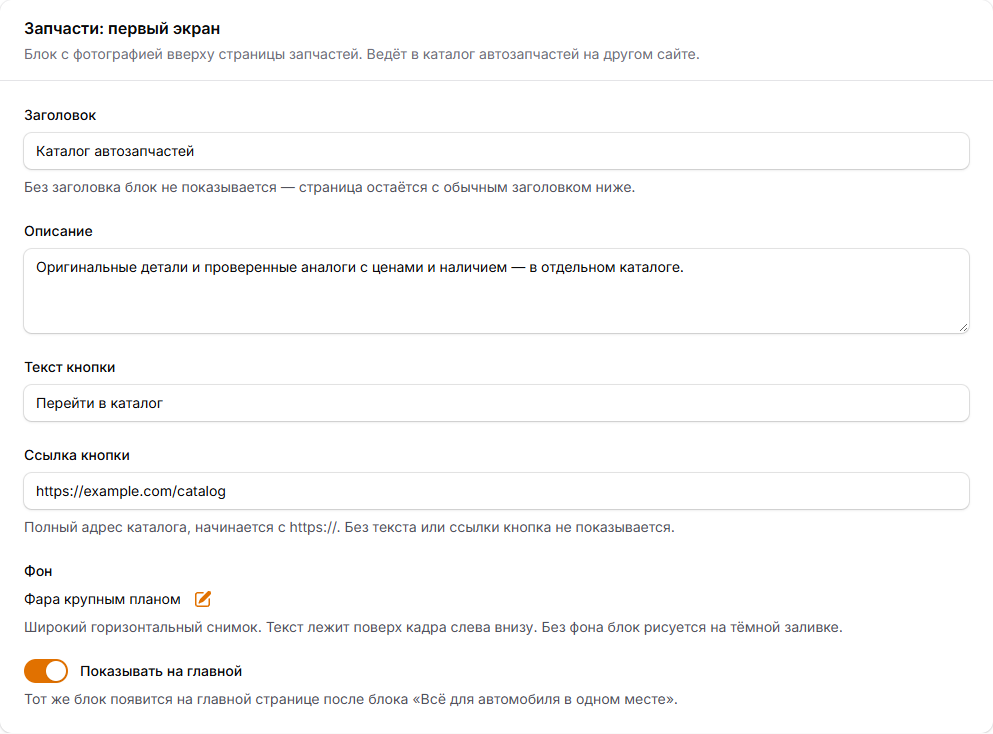
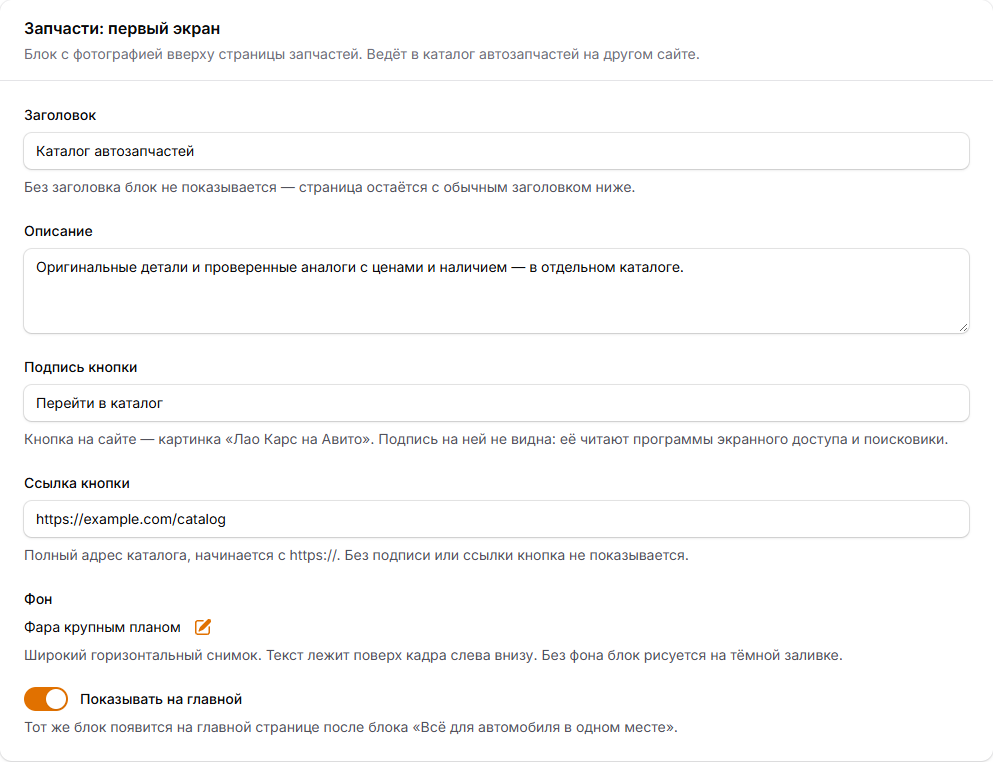
feat: кнопка первого экрана запчастей — плашка «Лао Карс на Авито»
Текстовая кнопка заменена картинкой; текст из настроек уходит в alt
и остаётся обязательным. Поле в панели переименовано в «Подпись кнопки»,
справка и снимки обновлены.

diff --git a/resources/views/components/parts/hero.blade.php b/resources/views/components/parts/hero.blade.php
@@ -91,14 +91,42 @@
                  или с адресом не по http(s) сервис отдаёт `null`. Внешний
                  адрес открывается в новой вкладке, и `noopener` там
                  обязателен — без него открытая страница получает доступ
-                 к нашей вкладке через `window.opener`. --}}
+                 к нашей вкладке через `window.opener`.
+
+                 Кнопка — КАРТИНКА, а не текст: плашка «Лао Карс на Авито»
+                 из `resources/images/avito-badge.svg`. Надпись на ней
+                 нарисована кривыми, поэтому текст кнопки из настроек
+                 никуда не делся — он стал подписью `alt`: это единственное,
+                 что прочтёт программа экранного доступа и что останется
+                 на месте картинки, если она не загрузилась. Пустой `alt`
+                 дал бы ссылку без имени.
+
+                 Плашка белая сама по себе (заливка внутри файла), и литерал
+                 `white` в классах здесь не нужен. Размеры проставлены явно —
+                 пропорция файла 705×141, — иначе блок прыгает при загрузке.
+
+                 Картинка зашита в вёрстку, а адрес приходит из настроек:
+                 если адрес ведёт не на Авито, плашка обещает не то, куда
+                 приведёт. Триггер вернуть текстовую кнопку или завести
+                 выбор — первый каталог не на Авито.
+
+                 Пробовали и составной вариант — надпись текстом плюс плашка
+                 с одним логотипом. Заказчик выбрал цельную плашку. --}}
             @if ($hero['button'] !== null)
                 <div class="mt-8">
                     <a
                         href="{{ $hero['button']['url'] }}"
                         @if ($hero['button']['external']) target="_blank" rel="noopener noreferrer" @endif
-                        class="inline-block rounded-full bg-accent-solid px-9 py-4.5 text-[15px] font-semibold tracking-[0.02em] text-on-accent transition hover:-translate-y-0.5 hover:bg-accent-hover"
-                    >{{ $hero['button']['text'] }}</a>
+                        class="inline-block rounded-full transition hover:-translate-y-0.5 hover:opacity-90"
+                    >
+                        <img
+                            src="{{ Vite::asset('resources/images/avito-badge.svg') }}"
+                            width="280"
+                            height="56"
+                            alt="{{ $hero['button']['text'] }}"
+                            class="h-14 w-auto"
+                        >
+                    </a>
                 </div>
             @endif
         </div>

diff --git a/tests/Feature/Http/PartsHeroTest.php b/tests/Feature/Http/PartsHeroTest.php
@@ -142,8 +142,31 @@ it('prints the hero button as an outside link opened in a new tab', function () 
     $html = flatHtml($this->get('/parts')->assertOk()->getContent());
 
     expect($html)->toMatch(
-        '#<a\s[^>]*href="https://parts\.example\.com/catalog"[^>]*target="_blank"[^>]*rel="noopener noreferrer"[^>]*>\s*Открыть каталог\s*</a>#u',
+        '#<a\s[^>]*href="https://parts\.example\.com/catalog"[^>]*target="_blank"[^>]*rel="noopener noreferrer"[^>]*>\s*<img\s[^>]*alt="Открыть каталог"[^>]*>\s*</a>#u',
     );
+});
+
+it('draws the hero button as the avito badge named by the button text', function () {
+    // Кнопка — картинка, и надпись на ней нарисована кривыми. Текст кнопки
+    // из настроек обязан доехать в `alt`: без него у ссылки нет имени —
+    // программа экранного доступа прочтёт адрес, а при незагрузившейся
+    // картинке на её месте не останется ничего.
+    partsHero();
+
+    $html = flatHtml($this->get('/parts')->assertOk()->getContent());
+
+    preg_match('#<a\s[^>]*href="https://parts\.example\.com/catalog"[^>]*>\s*(<img\s[^>]*>)\s*</a>#u', $html, $link);
+
+    expect($link)->not->toBeEmpty('ссылка-картинка первого экрана не найдена')
+        ->and($link[1])->toContain('avito-badge')
+        ->and($link[1])->toContain('alt="Открыть каталог"')
+        // Без явных размеров блок прыгает, пока картинка грузится.
+        ->and($link[1])->toContain('width="280"')
+        ->and($link[1])->toContain('height="56"');
+
+    // Текстом в теле ссылки подпись не печатается: два имени у одной
+    // ссылки программа экранного доступа прочла бы подряд.
+    expect($html)->not->toMatch('#Открыть каталог\s*</a>#u');
 });
 
 it('leaves a link to the site itself in the same tab', function () {
@@ -152,7 +175,7 @@ it('leaves a link to the site itself in the same tab', function () {
 
     $html = flatHtml($this->get('/parts')->assertOk()->getContent());
 
-    preg_match('#<a\s[^>]*href="https://laocars\.test/catalog"[^>]*>\s*Открыть каталог#u', $html, $link);
+    preg_match('#<a\s[^>]*href="https://laocars\.test/catalog"[^>]*>\s*<img\s[^>]*alt="Открыть каталог"#u', $html, $link);
 
     expect($link)->not->toBeEmpty()
         ->and($link[0])->not->toContain('target=');

diff --git a/app/Filament/Pages/ManageSiteSettings.php b/app/Filament/Pages/ManageSiteSettings.php
@@ -1093,12 +1093,18 @@ final class ManageSiteSettings extends Page
                     ->label('Описание')
                     ->rows(3),
 
+                // Кнопка на сайте — картинка «Лао Карс на Авито», и этот
+                // текст на ней не виден: он уходит в подпись картинки.
+                // Поле при этом по-прежнему обязательно для кнопки —
+                // ссылка-картинка без подписи не имеет имени для программ
+                // экранного доступа.
                 TextInput::make($key.'.button_text')
-                    ->label('Текст кнопки'),
+                    ->label('Подпись кнопки')
+                    ->helperText('Кнопка на сайте — картинка «Лао Карс на Авито». Подпись на ней не видна: её читают программы экранного доступа и поисковики.'),
 
                 TextInput::make($key.'.button_url')
                     ->label('Ссылка кнопки')
-                    ->helperText('Полный адрес каталога, начинается с https://. Без текста или ссылки кнопка не показывается.')
+                    ->helperText('Полный адрес каталога, начинается с https://. Без подписи или ссылки кнопка не показывается.')
                     // Проверка тем же методом, что и на выводе
                     // (`OutboundLink::isAllowed()`), а не своим похожим
                     // условием и не штатным `->url()`: два правила про одно

diff --git a/resources/help/service-pages-texts.md b/resources/help/service-pages-texts.md
@@ -28,7 +28,7 @@
 
 ## Запчасти: первый экран
 
-![Секция «Запчасти: первый экран»: заголовок, описание, текст и ссылка кнопки, фон и переключатель «Показывать на главной»](/admin/help/image/settings-parts-hero.png)
+![Секция «Запчасти: первый экран»: заголовок, описание, подпись и ссылка кнопки, фон и переключатель «Показывать на главной»](/admin/help/image/settings-parts-hero.png)
 
 Блок с фотографией в самом верху страницы запчастей. Он ведёт посетителя в каталог автозапчастей, который живёт на другом сайте.
 
@@ -36,20 +36,22 @@
 | :---- | :---- |
 | **Заголовок** | Крупная надпись поверх фотографии. Без заголовка блок не показывается вовсе |
 | **Описание** | Одно-два предложения под заголовком |
-| **Текст кнопки** | Надпись на жёлтой кнопке |
+| **Подпись кнопки** | Название кнопки для программ экранного доступа и поисковиков. На самой кнопке не видна |
 | **Ссылка кнопки** | Полный адрес каталога, начинается с `https://` |
 | **Фон** | Фотография под текстом, выбирается из медиабиблиотеки |
 | **Показывать на главной** | Ставит тот же блок на главную страницу |
 
 **Пока у первого экрана есть заголовок, поля «Запчасти: заголовок» и «Запчасти: вступление» на сайте не видны.** Первый экран занимает их место. Они вернутся на страницу, если заголовок первого экрана стереть.
 
-Кнопка появляется, только когда заполнены и текст, и ссылка. Каталог открывается у посетителя в новой вкладке, ваш сайт остаётся открытым.
+Кнопка на сайте — картинка «Лао Карс на Авито», и выглядит она всегда одинаково: надпись на ней отсюда не меняется. Поэтому ссылка должна вести именно на вашу страницу на Авито.
+
+Кнопка появляется, только когда заполнены и подпись, и ссылка. Каталог открывается у посетителя в новой вкладке, ваш сайт остаётся открытым.
 
 Для фона берите широкий горизонтальный снимок и сначала загрузите его в раздел **Медиа**. Текст лежит поверх кадра слева внизу, так что главное на фотографии лучше держать правее и выше. Без фона блок останется на тёмной заливке — это тоже рабочий вид.
 
 **Показывать на главной** ставит блок на главную страницу, сразу после блока «Всё для автомобиля в одном месте». Тексты, кнопка и фон там те же самые — отдельно для главной они не задаются.
 
-![Первый экран страницы запчастей на сайте: фотография, заголовок, описание и кнопка перехода в каталог](/admin/help/image/site-parts-hero.png)
+![Первый экран страницы запчастей на сайте: фотография, заголовок, описание и кнопка «Лао Карс на Авито»](/admin/help/image/site-parts-hero.png)
 
 ## Запчасти: остальные тексты
 
@@ -75,11 +77,13 @@
 
 **Поменял заголовок или вступление запчастей, а на сайте прежнее.** Заполнен первый экран, и он занял их место. Правьте поля в секции **Запчасти: первый экран**.
 
-**На первом экране нет кнопки.** Нужны оба поля — **Текст кнопки** и **Ссылка кнопки**. Если пусто одно, кнопка не показывается.
+**На первом экране нет кнопки.** Нужны оба поля — **Подпись кнопки** и **Ссылка кнопки**. Если пусто одно, кнопка не показывается.
 
 **Ссылка кнопки не сохраняется, панель пишет про адрес.** Нужен полный адрес сайта, с `https://` в начале. Скопируйте его из адресной строки браузера целиком.
 
 **Включил «Показывать на главной», а блока там нет.** У первого экрана пустой заголовок. Без заголовка блок не показывается ни на одной странице.
+
+**Поменял подпись кнопки, а на сайте кнопка прежняя.** Так и должно быть: кнопка — картинка «Лао Карс на Авито», подпись на ней не видна. Поменять саму картинку может разработчик.
 
 **Первый экран есть, а фотографии нет.** Поле **Фон** пустое. Выберите снимок из медиабиблиотеки.
 

diff --git a/docs/help-center.md b/docs/help-center.md
@@ -177,7 +177,7 @@ new HelpArticle(
 | `settings-home-price-faq.png` | Секции «Состав цены» и «Частые вопросы» на вкладке «Главная» | Настройки → Настройки сайта | 21.08.2026 |
 | `settings-footer.png` | Вкладка «Подвал»: поля блока гарантии — заголовок, текст, текст ссылки и адрес | Настройки → Настройки сайта | 21.08.2026 |
 | `settings-services-texts.png` | Вкладка «Автосервис и запчасти»: заголовки, вступления, оговорка о ценах и условия поставки | Настройки → Настройки сайта | 21.08.2026 |
-| `settings-parts-hero.png` | Секция «Запчасти: первый экран»: заголовок, описание, текст и ссылка кнопки, фон и переключатель «Показывать на главной» | Настройки → Настройки сайта | 07.10.2026 |
+| `settings-parts-hero.png` | Секция «Запчасти: первый экран»: заголовок, описание, подпись и ссылка кнопки, фон и переключатель «Показывать на главной» | Настройки → Настройки сайта | 12.10.2026 |
 | `settings-about-tab.png` | Вкладка «О компании»: заголовок страницы, вступление и блок миссии | Настройки → Настройки сайта | 21.08.2026 |
 | `settings-about-history.png` | Секция «История»: свёрнутые строки с годом, заголовком и текстом | Настройки → Настройки сайта | 21.08.2026 |
 | `settings-seo.png` | Вкладка «SEO»: заголовок и описание по умолчанию | Настройки → Настройки сайта | 21.08.2026 |
@@ -185,8 +185,8 @@ new HelpArticle(
 | `users-list.png` | Список пользователей: имя, почта и роль каждого сотрудника | Настройки → Пользователи | 21.08.2026 |
 | `user-form.png` | Форма пользователя: имя, почта, пароль и выбор роли | Настройки → Пользователи | 21.08.2026 |
 | `site-home-blocks.png` | Главная страница сайта: бегущая строка над шапкой, первый экран, полоса доверия и промо-блок | публичная `/` | 21.08.2026 |
-| `site-home-parts-block.png` | Блок каталога автозапчастей на главной странице: фотография, заголовок, описание и кнопка | публичная `/` | 07.10.2026 |
-| `site-parts-hero.png` | Первый экран страницы запчастей на сайте: фотография, заголовок, описание и кнопка перехода в каталог | публичная `/parts` | 07.10.2026 |
+| `site-home-parts-block.png` | Блок каталога автозапчастей на главной странице: фотография, заголовок, описание и кнопка | публичная `/` | 12.10.2026 |
+| `site-parts-hero.png` | Первый экран страницы запчастей на сайте: фотография, заголовок, описание и кнопка «Лао Карс на Авито» | публичная `/parts` | 12.10.2026 |
 | `site-car-card.png` | Карточка автомобиля в каталоге: главное фото, марка, модель, год и цена | публичный `/catalog` | 21.08.2026 |
 | `site-about-page.png` | Страница «О компании» на сайте: вступление, миссия, история по годам и команда | публичная `/about` | 21.08.2026 |
 | `site-contacts-page.png` | Страница «Контакты» на сайте: карточки с адресом и телефоном, часы работы и карта проезда | публичная `/contacts` | 21.08.2026 |

diff --git a/docs/services-and-parts.md b/docs/services-and-parts.md
@@ -139,6 +139,7 @@
 - **Отсутствующий ключ — это прежняя страница.** На проде сиды не запускаются, и строки `parts_page.hero` там нет, пока форму настроек не сохранили: до этого момента `/parts` не меняется. Отдельного шага установки поэтому нет.
 - **Шапка над блоком прозрачная**, как на главной: шаблон ставит `$headerOverlay` по наличию блока. Без блока шапка обязана остаться обычной — логотип белый, и поверх светлой страницы он исчез бы.
 - **Адрес кнопки проверяется дважды одним методом** — `App\Support\OutboundLink::isAllowed()` в правиле формы и на выводе в `PartsHeroContent`. Blade экранирует значение, но не схему: `javascript:` в `href` экранирование переживает. Принимается только абсолютный адрес по `http(s)`; чужой хост открывается в новой вкладке с `rel="noopener noreferrer"`.
+- **Кнопка — картинка, а не текст**: плашка «Лао Карс на Авито» из `resources/images/avito-badge.svg`, зашитая в вёрстку. Текст из настройки `button_text` уходит в `alt` и остаётся обязательным: ссылка-картинка без подписи не имеет имени. Картинка одна на любой адрес — если каталог окажется не на Авито, плашку надо менять вместе с адресом.
 - **Фон учтён в `MediaSettingKeys`**, поэтому выбранный файл нельзя удалить из медиабиблиотеки.
 - **Переключатель «Показывать на главной»** (`show_on_home`) ставит тот же блок на главную после «Экосистемы». Сравнение строгое, `=== true`. Подробности — в [homepage.md](homepage.md).
 
@@ -218,7 +219,7 @@
 | Автосервис: почему сюда | `services_page.advantages` | Карточки рядом с фотографией мастерской |
 | Запчасти: первый экран → Заголовок | `parts_page.hero.title` | H1 первого экрана. Пустой — блока нет |
 | Запчасти: первый экран → Описание | `parts_page.hero.text` | Абзац под заголовком блока |
-| Запчасти: первый экран → Текст кнопки | `parts_page.hero.button_text` | Подпись кнопки |
+| Запчасти: первый экран → Подпись кнопки | `parts_page.hero.button_text` | `alt` картинки-кнопки; на самой кнопке не виден |
 | Запчасти: первый экран → Ссылка кнопки | `parts_page.hero.button_url` | Адрес каталога на другом сервисе, только `http(s)` |
 | Запчасти: первый экран → Фон | `parts_page.hero.image_id` | Фотография под текстом, из медиабиблиотеки |
 | Запчасти: первый экран → Показывать на главной | `parts_page.hero.show_on_home` | Тот же блок на главной после «Экосистемы» |
